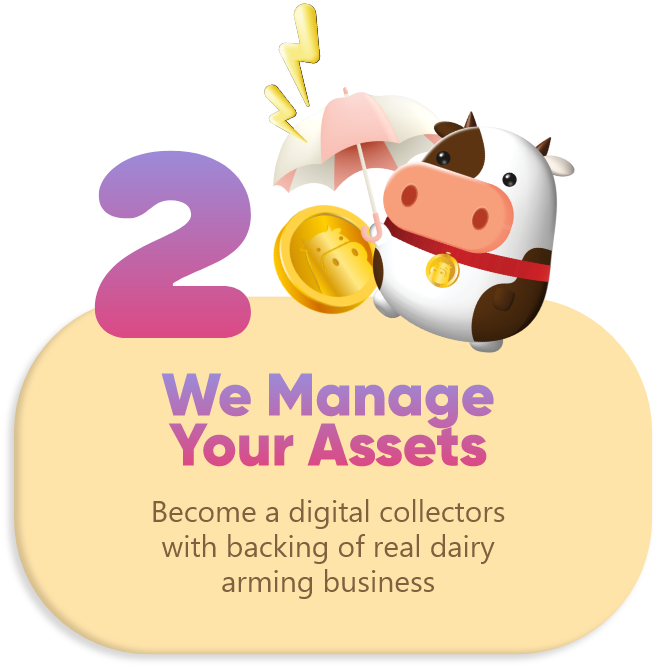
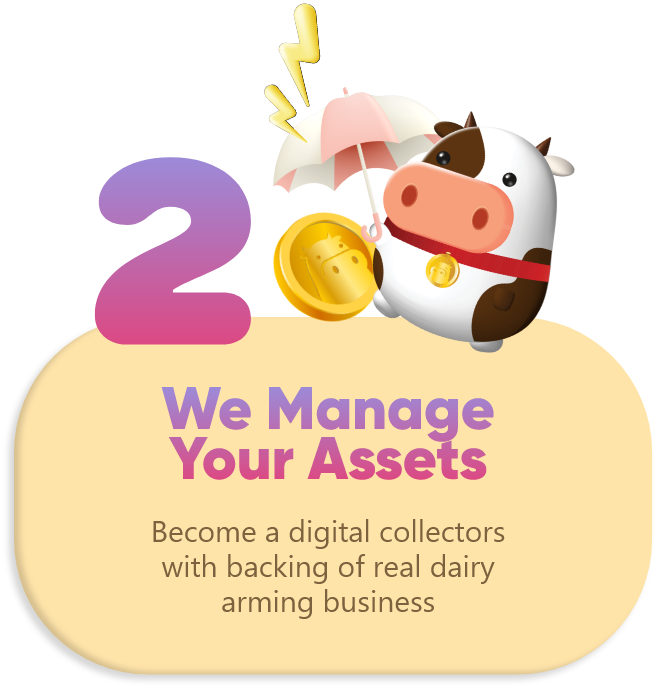
change img background color

diff --git a/public/index.html b/public/index.html
@@ -203,7 +203,7 @@
           <div class="row">
             <div class="col-md-6 mb-6">
               <div class="card ">
-                <img src="assets/img/main/process-1.png" alt="service" />
+                <img src="assets/img/main/process-11.png" alt="service" />
               </div>
             </div>
             <div class="col-md-6 mb-6">

diff --git a/public/assets/css/theme.css b/public/assets/css/theme.css
@@ -291,6 +291,7 @@ figure {
 img,
 svg {
   vertical-align: middle;
+  background-color: #DBF4FF;
 }
 
 table {
